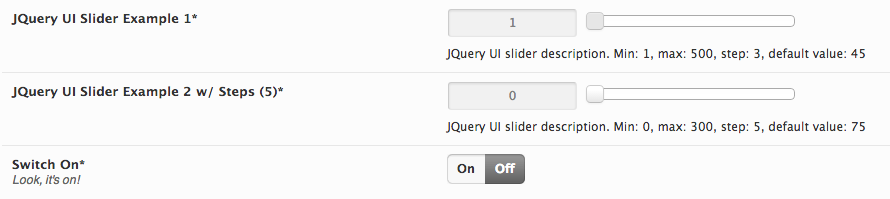
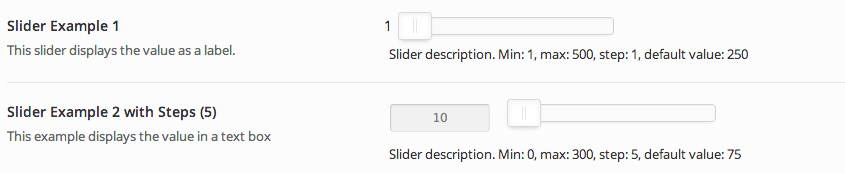
Fixed the sample config to work with presets. Fixed it so import works again (missed a line). Pushing to wp.org as to fix importing and presets.  ;)

diff --git a/sample/sample-config.php b/sample/sample-config.php
@@ -388,7 +388,7 @@ if (!class_exists('Redux_Framework_sample_config')) {
                     ),
                     array(
                         'id'        => 'switch-off',
-                        'type'      => 'checkbox',
+                        'type'      => 'switch',
                         'title'     => __('Switch Off', 'redux-framework-demo'),
                         'subtitle'  => __('Look, it\'s on!', 'redux-framework-demo'),
                         //'options' => array('on', 'off'),
@@ -397,7 +397,7 @@ if (!class_exists('Redux_Framework_sample_config')) {
                     array(
                         'id'        => 'switch-parent',
                         'type'      => 'switch',
-                        'title'     => __('Switch - Custom Titles', 'redux-framework-demo'),
+                        'title'     => __('Switch - Nested Children, Enable to show', 'redux-framework-demo'),
                         'subtitle'  => __('Look, it\'s on! Also hidden child elements!', 'redux-framework-demo'),
                         'default'   => 0,
                         'on'        => 'Enabled',
@@ -407,7 +407,7 @@ if (!class_exists('Redux_Framework_sample_config')) {
                         'id'        => 'switch-child1',
                         'type'      => 'switch',
                         'required'  => array('switch-parent', '=', '1'),
-                        'title'     => __('Switch - With Hidden Items (NESTED!)', 'redux-framework-demo'),
+                        'title'     => __('Switch - This and the next switch required for patterns to show', 'redux-framework-demo'),
                         'subtitle'  => __('Also called a "fold" parent.', 'redux-framework-demo'),
                         'desc'      => __('Items set with a fold to this ID will hide unless this is set to the appropriate value.', 'redux-framework-demo'),
                         'default'   => false,
@@ -416,7 +416,7 @@ if (!class_exists('Redux_Framework_sample_config')) {
                         'id'        => 'switch-child2',
                         'type'      => 'switch',
                         'required'  => array('switch-parent', '=', '1'),
-                        'title'     => __('Switch2 - With Hidden Items (NESTED!)', 'redux-framework-demo'),
+                        'title'     => __('Switch2 - Enable the above switch and this one for patterns to show', 'redux-framework-demo'),
                         'subtitle'  => __('Also called a "fold" parent.', 'redux-framework-demo'),
                         'desc'      => __('Items set with a fold to this ID will hide unless this is set to the appropriate value.', 'redux-framework-demo'),
                         'default'   => false,
@@ -426,8 +426,8 @@ if (!class_exists('Redux_Framework_sample_config')) {
                         'type'      => 'image_select',
                         'tiles'     => true,
                         'required'  => array(
+                                            array('switch-child1', 'equals', 1),
                                             array('switch-child2', 'equals', 1),
-                                            array('switch-off', 'equals', 1),
                                        ),
                         'title'     => __('Images Option (with pattern=>true)', 'redux-framework-demo'),
                         'subtitle'  => __('Select a background pattern.', 'redux-framework-demo'),
@@ -497,8 +497,8 @@ if (!class_exists('Redux_Framework_sample_config')) {
                         'default'   => 0,
                         'desc'      => __('This allows you to set a json string or array to override multiple preferences in your theme.', 'redux-framework-demo'),
                         'options'   => array(
-                            '1'         => array('alt' => 'Preset 1', 'img' => ReduxFramework::$_url . '../sample/presets/preset1.png', 'presets' => array('switch-on' => 1, 'switch-off' => 1, 'switch-custom' => 1)),
-                            '2'         => array('alt' => 'Preset 2', 'img' => ReduxFramework::$_url . '../sample/presets/preset2.png', 'presets' => '{"slider1":"1", "slider2":"0", "switch-on":"0"}'),
+                            '1'         => array('alt' => 'Preset 1', 'img' => ReduxFramework::$_url . '../sample/presets/preset1.png', 'presets' => array('switch-on' => 1, 'switch-off' => 1, 'switch-parent' => 1)),
+                            '2'         => array('alt' => 'Preset 2', 'img' => ReduxFramework::$_url . '../sample/presets/preset2.png', 'presets' => '{"opt-slider-label":"1", "opt-slider-text":"10"}'),
                         ),
                     ),
                     array(
@@ -615,6 +615,7 @@ if (!class_exists('Redux_Framework_sample_config')) {
             $this->sections[] = array(
                 'icon'      => 'el-icon-website',
                 'title'     => __('Styling Options', 'redux-framework-demo'),
+                'subsection' => true,
                 'fields'    => array(
                     array(
                         'id'        => 'opt-select-stylesheet',

diff --git a/ReduxCore/framework.php b/ReduxCore/framework.php
@@ -17,7 +17,7 @@
  * @package     Redux_Framework
  * @subpackage  Core
  * @author      Redux Framework Team
- * @version     3.2.6
+ * @version     3.2.7
  */
 
 // Exit if accessed directly
@@ -64,7 +64,7 @@ if( !class_exists( 'ReduxFramework' ) ) {
         // ATTENTION DEVS
         // Please update the build number with each push, no matter how small.
         // This will make for easier support when we ask users what version they are using.
-        public static $_version = '3.2.6.2';
+        public static $_version = '3.2.7';
         public static $_dir;
         public static $_url;
         public static $wp_content_url;
@@ -2383,6 +2383,7 @@ if( !class_exists( 'ReduxFramework' ) ) {
 
 
                 if( !empty( $imported_options ) && is_array( $imported_options ) && isset( $imported_options['redux-backup'] ) && $imported_options['redux-backup'] == '1' ) {
+
                     $this->transients['changed_values'] = array();
                     foreach( $plugin_options as $key => $value) {
                         if ( isset($imported_options[$key]) && $imported_options[$key] != $value ) {
@@ -2412,8 +2413,8 @@ if( !class_exists( 'ReduxFramework' ) ) {
                         $this->set_options( $plugin_options );
                         return;
                     }
+                    $plugin_options = wp_parse_args( $imported_options, $plugin_options );
                     $this->set_transients(); // Update the transients
-
                     return $plugin_options;
 
                 }

diff --git a/redux-framework.php b/redux-framework.php
@@ -12,7 +12,7 @@
  * Description:     Redux is a simple, truly extensible options framework for WordPress themes and plugins.
  * Author:          Team Redux
  * Author URI:      http://reduxframework.com
- * Version:         3.2.6.2
+ * Version:         3.2.7
  * Text Domain:     redux-framework
  * License:         GPL3+
  * License URI:     http://www.gnu.org/licenses/gpl-3.0.txt

diff --git a/README.md b/README.md
@@ -74,6 +74,9 @@ Send me an email at ghost1227@reduxframework.com so I can add you to our user sp
 
 ### Master ###
 
+= 3.2.7 =
+* Fixed:      Import works again. A single line was missed...
+
 = 3.2.6.2 =
 * Fixed:      link_color field not outputting CSS properly via compiler or output.  Thanks @vertigo7x 
 * Fixed:      Sorter field CSS.  Buttons were all smushed together.
